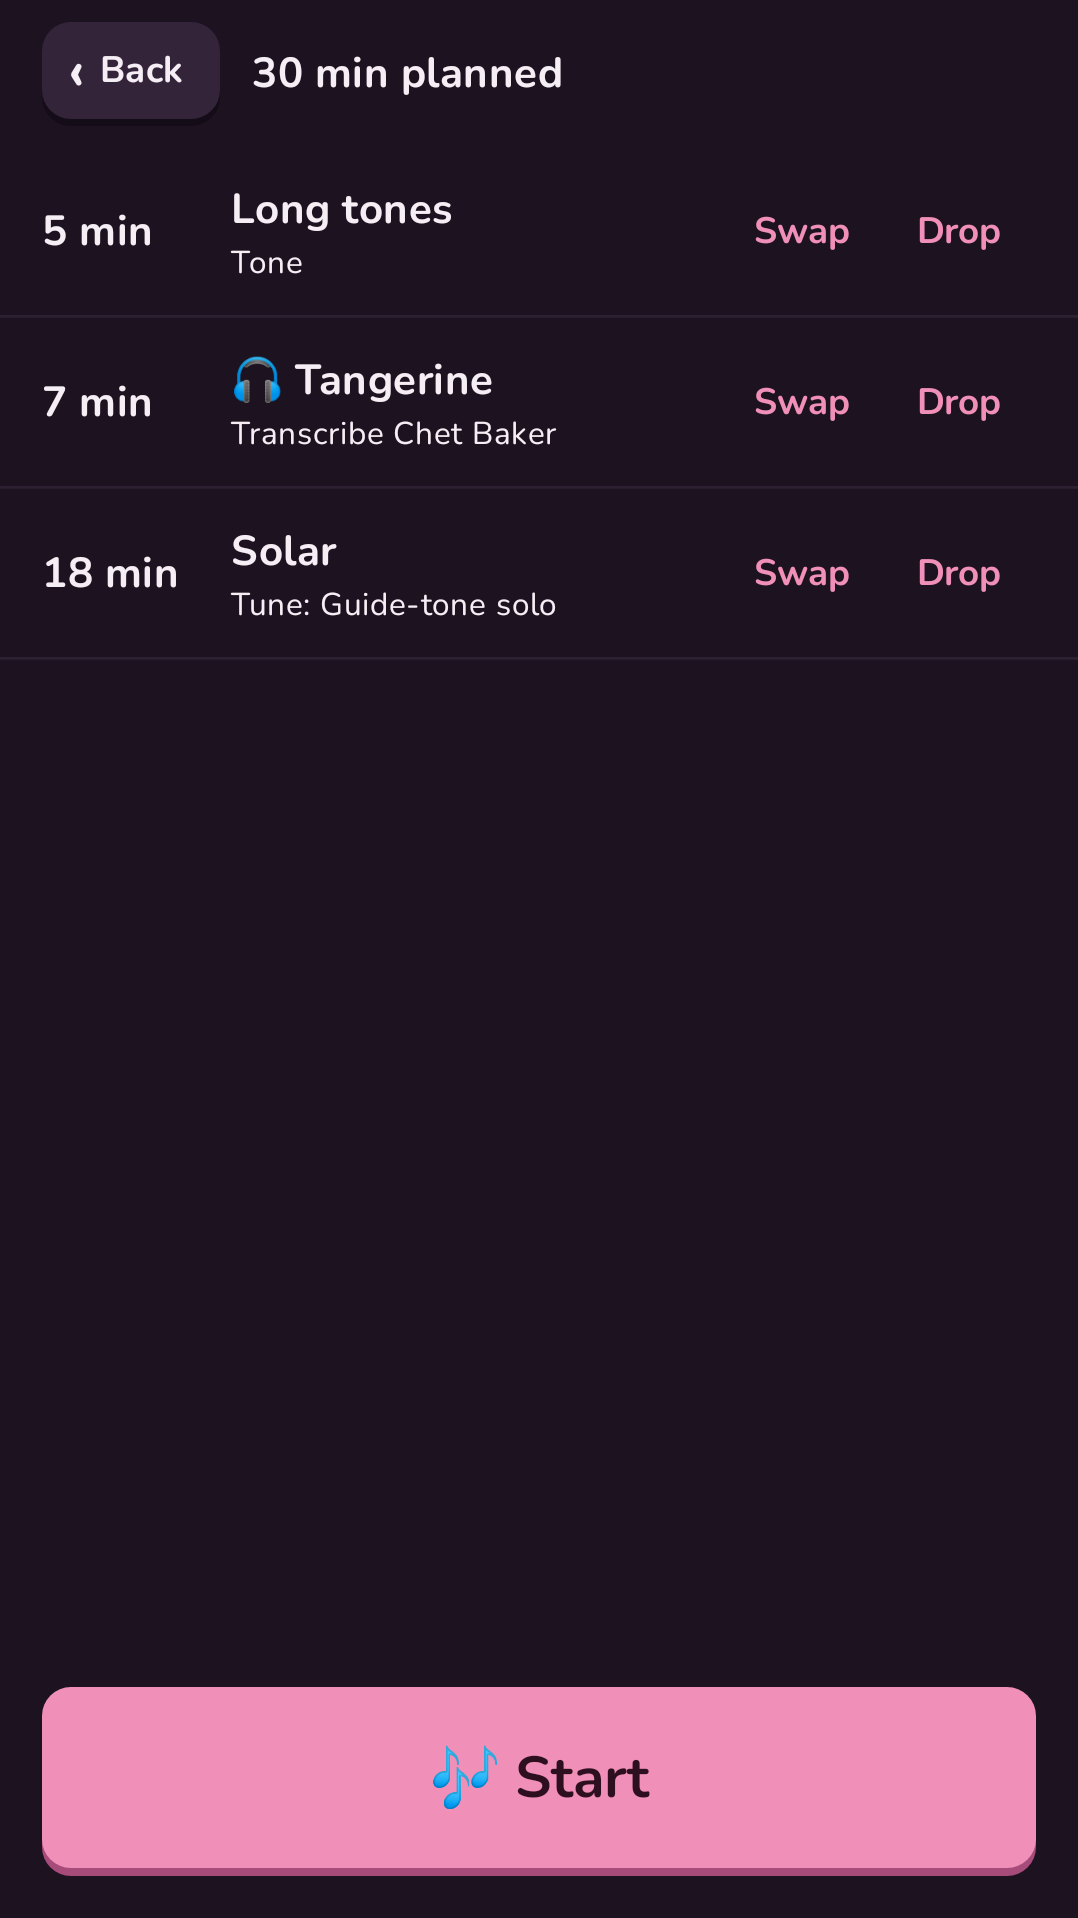
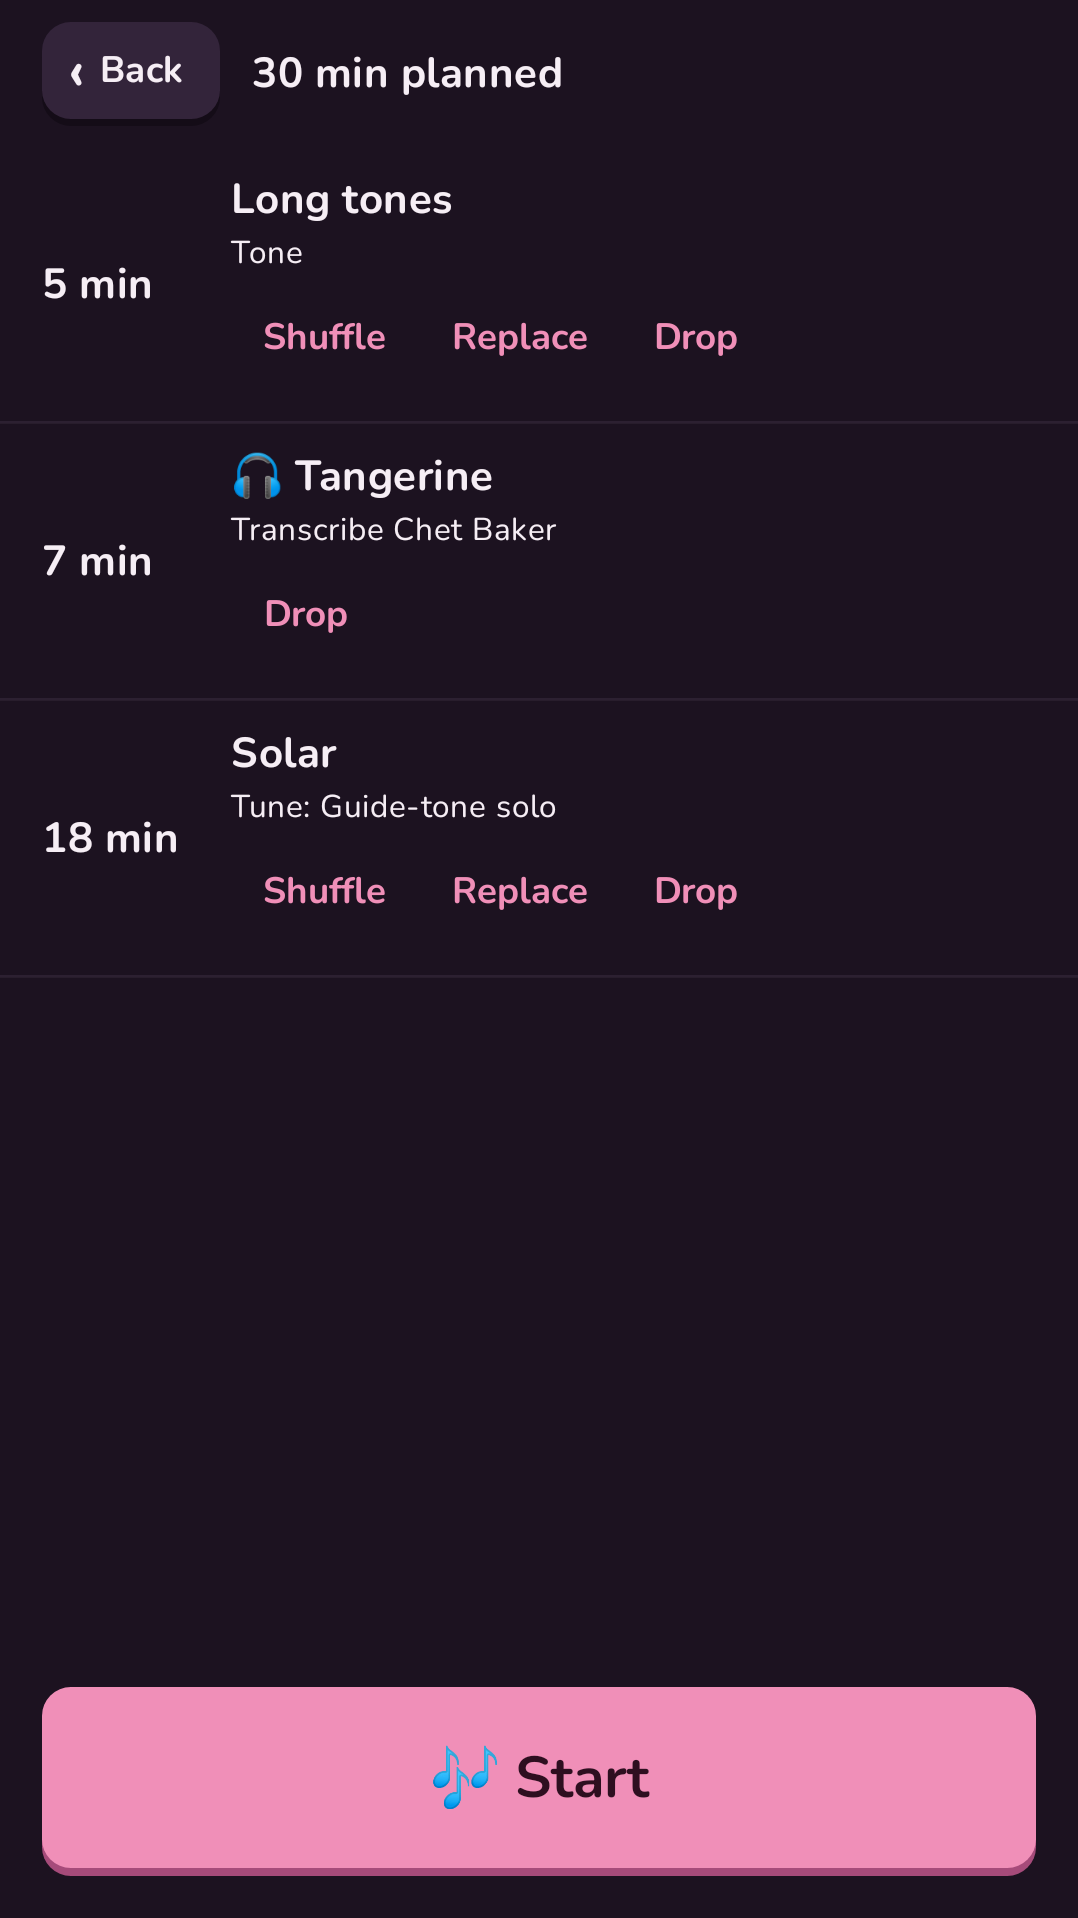
feat(app): shuffle, replace or drop plan blocks

diff --git a/app/src/main/java/com/larakelley/woodshed/ui/practice/PracticeScreen.kt b/app/src/main/java/com/larakelley/woodshed/ui/practice/PracticeScreen.kt
@@ -77,7 +77,11 @@ data class SetupActions(
   val pickSolo: (Long?) -> Unit = {},
   val buildPlan: () -> Unit = {},
   val discardPlan: () -> Unit = {},
-  val swap: (Int) -> Unit = {},
+  /** A random different exercise for a block. */
+  val shuffle: (Int) -> Unit = {},
+  /** The exercises a block's could be replaced with, for choosing one. */
+  val replacements: (Int) -> List<ExerciseRow> = { emptyList() },
+  val replace: (Int, Long) -> Unit = { _, _ -> },
   val remove: (Int) -> Unit = {},
   val start: () -> Unit = {},
 )
@@ -239,6 +243,30 @@ private fun PlanReview(plan: List<PlanItem>, actions: SetupActions) {
   }
   BackHandler(onBack = actions.discardPlan)
   var shown by remember { mutableStateOf<ExerciseRow?>(null) }
+  var replacing by remember { mutableStateOf<Int?>(null) }
+  replacing?.let { index ->
+    val options = remember(index, plan) { actions.replacements(index) }
+    AlertDialog(
+      onDismissRequest = { replacing = null },
+      title = { Text("Replace ${plan.getOrNull(index)?.let { if (it.block is PlanBlock.Tune) it.detail else it.title } ?: "exercise"}") },
+      text = {
+        LazyColumn(Modifier.testTag("replacements")) {
+          itemsIndexed(options) { _, option ->
+            Column(
+              Modifier.fillMaxWidth().clickable {
+                actions.replace(index, option.id)
+                replacing = null
+              }.padding(vertical = 8.dp).testTag("replacement-${option.id}"),
+            ) {
+              Text(option.name, style = MaterialTheme.typography.titleMedium)
+              Text(option.summary, style = MaterialTheme.typography.bodySmall)
+            }
+          }
+        }
+      },
+      confirmButton = { TextButton(onClick = { replacing = null }) { Text("Cancel") } },
+    )
+  }
   shown?.let { exercise ->
     AlertDialog(
       onDismissRequest = { shown = null },
@@ -267,9 +295,15 @@ private fun PlanReview(plan: List<PlanItem>, actions: SetupActions) {
           Column(Modifier.weight(1f)) {
             Text(item.title, style = MaterialTheme.typography.titleMedium)
             Text(if (item.block is PlanBlock.Tune) "Tune: ${item.detail}" else item.detail, style = MaterialTheme.typography.bodySmall)
+            Row {
+              // A solo block has no exercise to change, only to drop.
+              if (item.block !is PlanBlock.Solo) {
+                TextButton(onClick = { actions.shuffle(i) }, modifier = Modifier.testTag("shuffle-$i")) { Text("Shuffle") }
+                TextButton(onClick = { replacing = i }, modifier = Modifier.testTag("replace-$i")) { Text("Replace") }
+              }
+              TextButton(onClick = { actions.remove(i) }, modifier = Modifier.testTag("remove-$i")) { Text("Drop") }
+            }
           }
-          TextButton(onClick = { actions.swap(i) }, modifier = Modifier.testTag("swap-$i")) { Text("Swap") }
-          TextButton(onClick = { actions.remove(i) }, modifier = Modifier.testTag("remove-$i")) { Text("Drop") }
         }
         HorizontalDivider()
       }

diff --git a/app/src/main/java/com/larakelley/woodshed/ui/practice/PracticeModel.kt b/app/src/main/java/com/larakelley/woodshed/ui/practice/PracticeModel.kt
@@ -300,23 +300,38 @@ class PracticeViewModel(
     }
   }
 
-  /** Replaces a block's exercise with another of the same kind that is not already in the plan, if there is one. */
-  fun swap(index: Int) {
-    val plan = _ui.value.setup.plan ?: return
-    val block = plan.getOrNull(index)?.block ?: return
+  /** Exercises that could stand in for a block's: the same kind, suited to the instrument, and not already planned. */
+  fun replacements(index: Int): List<ExerciseRow> {
+    val plan = _ui.value.setup.plan ?: return emptyList()
+    val block = plan.getOrNull(index)?.block ?: return emptyList()
     val inPlan = plan.map { it.block }.filterIsInstance<PlanBlock.Exercise>().map { it.exerciseId }.toSet()
     val usable = exercises.values.filter { it.archivedAt == null && fitsFamily(it) }
-    val swapped = when (block) {
+    return when (block) {
       is PlanBlock.Exercise -> {
         val category = exercises[block.exerciseId]?.category
-        usable.filter { it.category == category && !it.appliesToTune && it.id !in inPlan }.randomOrNull()?.let { block.copy(exerciseId = it.id) }
+        usable.filter { it.category == category && !it.appliesToTune && it.id !in inPlan }
       }
 
-      is PlanBlock.Tune -> usable.filter { it.appliesToTune && it.id != block.exerciseId }.randomOrNull()?.let { block.copy(exerciseId = it.id) }
+      is PlanBlock.Tune -> usable.filter { it.appliesToTune && it.id != block.exerciseId }
 
-      is PlanBlock.Solo -> null
-    } ?: return
-    _ui.update { it.copy(setup = it.setup.copy(plan = plan.toMutableList().also { p -> p[index] = planItem(swapped) })) }
+      is PlanBlock.Solo -> emptyList()
+    }.sortedBy { it.name.lowercase() }.map(::exerciseRow)
+  }
+
+  /** Replaces a block's exercise with a random one of [replacements], if there is one. */
+  fun shuffle(index: Int) {
+    replacements(index).randomOrNull()?.let { replace(index, it.id) }
+  }
+
+  /** Replaces a block's exercise with [exerciseId], keeping its length. */
+  fun replace(index: Int, exerciseId: Long) {
+    val plan = _ui.value.setup.plan ?: return
+    val replaced = when (val block = plan.getOrNull(index)?.block) {
+      is PlanBlock.Exercise -> block.copy(exerciseId = exerciseId)
+      is PlanBlock.Tune -> block.copy(exerciseId = exerciseId)
+      is PlanBlock.Solo, null -> return
+    }
+    _ui.update { it.copy(setup = it.setup.copy(plan = plan.toMutableList().also { p -> p[index] = planItem(replaced) })) }
   }
 
   fun removeBlock(index: Int) {

diff --git a/app/src/test/java/com/larakelley/woodshed/ui/practice/PracticeScreenTest.kt b/app/src/test/java/com/larakelley/woodshed/ui/practice/PracticeScreenTest.kt
@@ -177,20 +177,36 @@ class PracticeScreenTest {
       PlanItem(PlanBlock.Exercise(1, 5), "Long tones", "Tone", longTones),
       PlanItem(PlanBlock.Tune(7, 2, 25), "Solar", "Guide-tone solo"),
     )
-    val swapped = mutableListOf<Int>()
+    val shuffled = mutableListOf<Int>()
+    val replaced = mutableListOf<Pair<Int, Long>>()
+    val melody = ExerciseRow("Melody from memory", "Standards", "Standards, 10 min, difficulty 3", "", id = 11, appliesToTune = true)
     var started = false
     // With notifications allowed, Start goes straight to the session rather than asking first.
     shadowOf(ApplicationProvider.getApplicationContext<Application>()).grantPermissions(Manifest.permission.POST_NOTIFICATIONS)
-    compose.setContent { PracticeHome(PracticeUi(setup = SetupUi(plan = plan)), SetupActions(swap = { swapped += it }, start = { started = true })) }
+    compose.setContent {
+      PracticeHome(
+        PracticeUi(setup = SetupUi(plan = plan)),
+        SetupActions(
+          shuffle = { shuffled += it },
+          replacements = { if (it == 1) listOf(melody) else emptyList() },
+          replace = { i, id -> replaced += i to id },
+          start = { started = true },
+        ),
+      )
+    }
 
     compose.onNodeWithText("30 min planned").assertExists()
     compose.onNodeWithText("Tune: Guide-tone solo").assertExists()
     compose.onNodeWithTag("plan-0").performClick()
     compose.onNodeWithText("All instruments").assertExists()
     compose.onNodeWithText("Close").performClick()
-    compose.onNodeWithTag("swap-1").performClick()
+    compose.onNodeWithTag("shuffle-1").performClick()
+    compose.onNodeWithTag("replace-1").performClick()
+    compose.onNodeWithTag("replacement-11").performClick()
+    compose.onNodeWithTag("replacements").assertDoesNotExist()
     compose.onNodeWithTag("start").performClick()
-    assertEquals(listOf(1), swapped)
+    assertEquals(listOf(1), shuffled)
+    assertEquals(listOf(1 to 11L), replaced)
     assertTrue(started)
   }
 }

diff --git a/app/src/test/java/com/larakelley/woodshed/ui/practice/PracticeViewModelTest.kt b/app/src/test/java/com/larakelley/woodshed/ui/practice/PracticeViewModelTest.kt
@@ -129,4 +129,30 @@ class PracticeViewModelTest {
     assertFalse(vm.ui.value.running)
     assertNull(vm.ui.value.setup.plan)
   }
+
+  @Test
+  fun aPlannedExerciseCanBeReplacedWithAnotherOfItsKindNotAlreadyPlanned() = runTest {
+    practice.startLearning(id("solar"))
+    val vm = PracticeViewModel(repository, practice, sessions)
+    vm.setInstrument(Instrument.ALTO_SAX)
+    vm.setMinutes(60)
+    vm.buildPlan()
+    val plan = vm.ui.value.setup.plan!!
+    val index = plan.indexOfFirst { it.block is PlanBlock.Exercise }
+    val block = plan[index].block as PlanBlock.Exercise
+    val planned = plan.mapNotNull { (it.block as? PlanBlock.Exercise)?.exerciseId }.toSet()
+
+    val options = vm.replacements(index)
+    assertTrue(options.isNotEmpty())
+    assertTrue(options.all { it.category == plan[index].exercise!!.category && it.id !in planned })
+
+    vm.replace(index, options.first().id)
+    val replaced = vm.ui.value.setup.plan!![index]
+    assertEquals(options.first().id, (replaced.block as PlanBlock.Exercise).exerciseId)
+    assertEquals(block.minutes, replaced.block.minutes)
+
+    // A solo block has nothing to replace.
+    vm.pickSolo(null)
+    assertTrue(vm.replacements(99).isEmpty())
+  }
 }

diff --git a/app/src/main/java/com/larakelley/woodshed/MainActivity.kt b/app/src/main/java/com/larakelley/woodshed/MainActivity.kt
@@ -107,7 +107,9 @@ class MainActivity : ComponentActivity() {
             pickSolo = practice::pickSolo,
             buildPlan = practice::buildPlan,
             discardPlan = practice::discardPlan,
-            swap = practice::swap,
+            shuffle = practice::shuffle,
+            replacements = practice::replacements,
+            replace = practice::replace,
             remove = practice::removeBlock,
             start = practice::start,
           )
